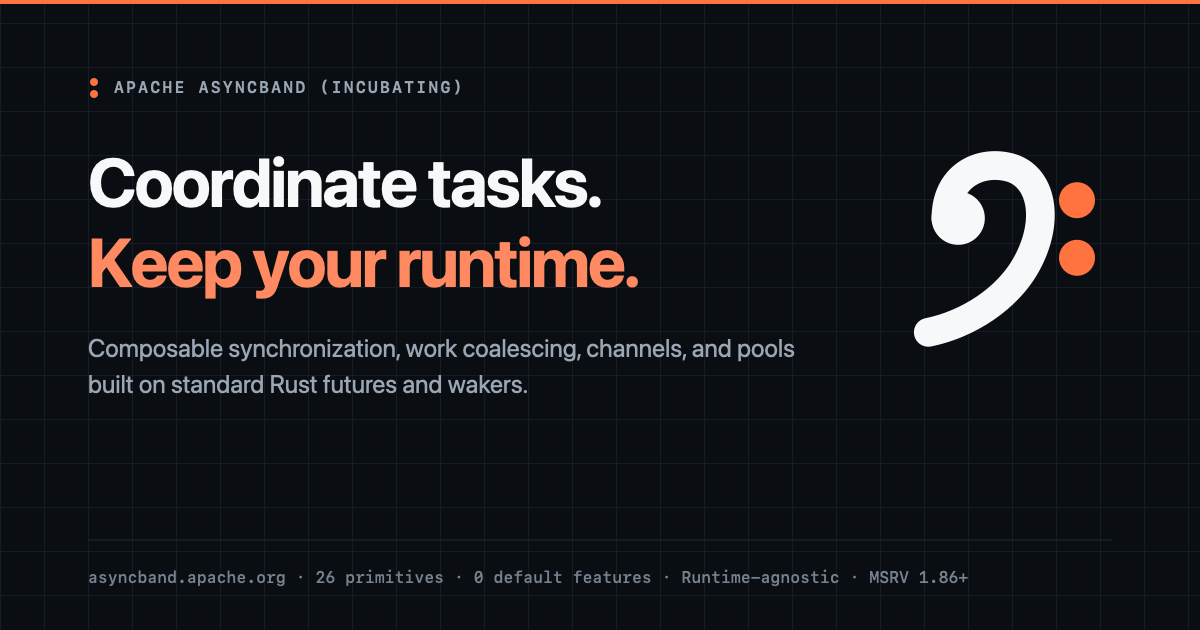
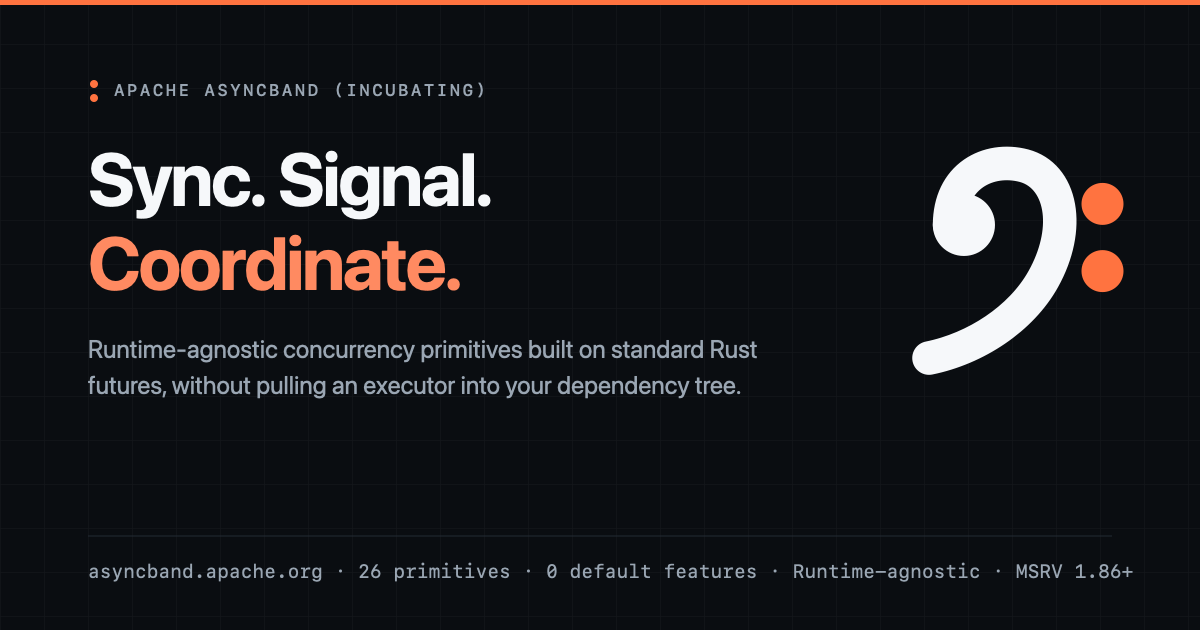
docs(home): tighten hero headline, lede, and action buttons
- Replace the hero headline and lede with `Sync. Signal. Coordinate.` and a single concise sentence explaining executor-free standard-future primitives.
- Drop the duplicate `View on GitHub` hero button, keeping `Explore primitives` and `API Docs` alongside the navbar GitHub link.
- Synchronize the page meta description, `DESIGN_SYSTEM.md`, and `static/og.png`.

diff --git a/src/components/landing/sections.tsx b/src/components/landing/sections.tsx
@@ -7,7 +7,6 @@ import { useState, type ReactNode } from 'react';
 import CodeTabs from './CodeTabs';
 import {
 	DOCS_URL,
-	REPO_URL,
 	adoption,
 	allPrimitives,
 	capabilityThemes,
@@ -29,14 +28,13 @@ export function Hero(): ReactNode {
 					<div>
 						<span className="ab-eyebrow">Apache Asyncband (Incubating) · Async Rust</span>
 						<h1 className={styles.heroTitle}>
-							Coordinate tasks.
+							Sync. Signal.
 							<br />
-							<span className={styles.heroTitleAccent}>Keep your runtime.</span>
+							<span className={styles.heroTitleAccent}>Coordinate.</span>
 						</h1>
 						<p className={styles.heroLede}>
-							Composable synchronization, work coalescing, channels, and object pools built on
-							standard Rust futures and wakers, without spawning tasks, owning threads, or choosing
-							an executor for your application.
+							Runtime-agnostic concurrency primitives built on standard Rust futures, without
+							pulling an executor into your dependency tree.
 						</p>
 						<div className={styles.heroActions}>
 							<a className={`${styles.btn} ${styles.btnPrimary}`} href="#primitives">
@@ -44,9 +42,6 @@ export function Hero(): ReactNode {
 							</a>
 							<Link className={`${styles.btn} ${styles.btnSecondary}`} to={DOCS_URL}>
 								API Docs ↗
-							</Link>
-							<Link className={`${styles.btn} ${styles.btnSecondary}`} to={REPO_URL}>
-								View on GitHub
 							</Link>
 						</div>
 						<div className={styles.heroStats}>

diff --git a/src/css/custom.css b/src/css/custom.css
@@ -1,7 +1,7 @@
 /* ==========================================================================
    Apache Asyncband (Incubating) Design System
    --------------------------------------------------------------------------
-   "Coordinate tasks. Keep your runtime." An engineering-grade visual system
+   "Sync. Signal. Coordinate." An engineering-grade visual system
    sharing its skeleton (ink scale, system typography, 4px rhythm, hairline
    grids) with Apache OpenDAL and Apache Reqsign, while carrying Asyncband's
    own identity: Resonant Copper accents, the Bauhaus Bass Clef mark, and the

diff --git a/src/pages/index.tsx b/src/pages/index.tsx
@@ -12,7 +12,7 @@ import {
 
 export default function Home(): ReactNode {
 	return (
-		<Layout description="Apache Asyncband (Incubating) is a runtime-agnostic library providing composable synchronization, work coalescing, channels, and object pools for asynchronous Rust.">
+		<Layout description="Apache Asyncband (Incubating) provides runtime-agnostic concurrency primitives built on standard Rust futures, without pulling an executor into your dependency tree.">
 			<Hero />
 			<main>
 				<Adoption />

diff --git a/DESIGN_SYSTEM.md b/DESIGN_SYSTEM.md
@@ -1,6 +1,6 @@
 # Asyncband Design System
 
-> **Coordinate tasks. Keep your runtime.** An engineering-grade visual language for Apache Asyncband (Incubating), sharing its structural skeleton with Apache OpenDAL and Apache Reqsign while carrying Asyncband's own identity.
+> **Sync. Signal. Coordinate.** An engineering-grade visual language for Apache Asyncband (Incubating), sharing its structural skeleton with Apache OpenDAL and Apache Reqsign while carrying Asyncband's own identity.
 
 This document defines the visual system for `asyncband-site`. The landing page (`src/pages/index.tsx`) applies the full component vocabulary, while `/downloads`, `/community`, and `/blog` inherit the same tokens through Infima variable projection.
 
